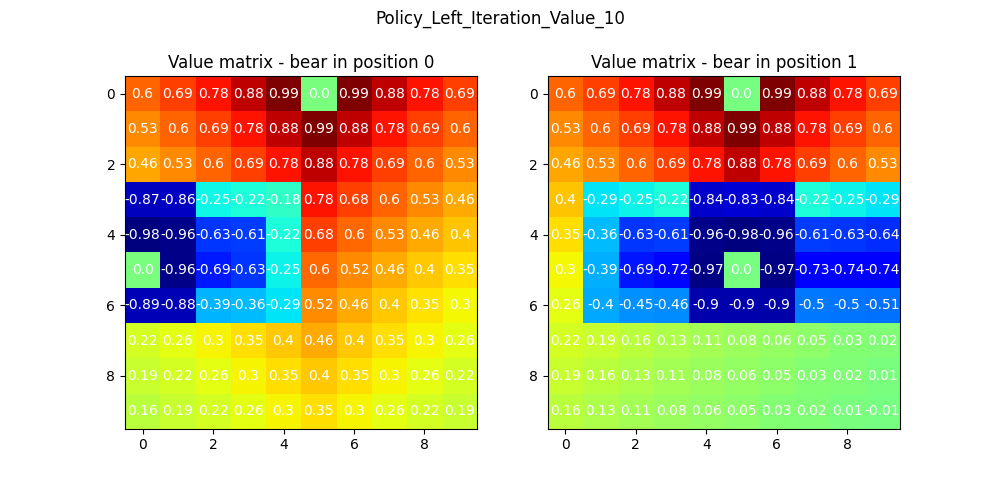
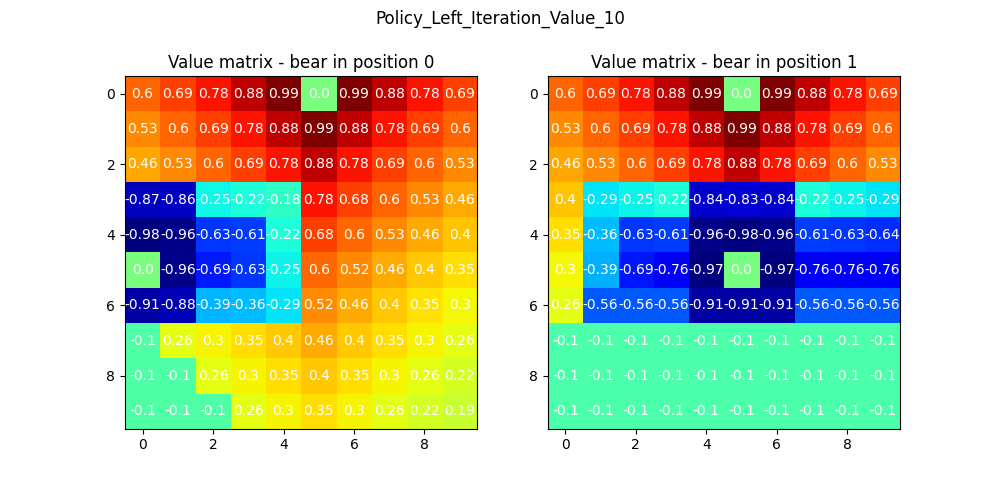
correct exercise 2

Changed region(s): [[0.527, 0.57, 0.899, 0.87], [0.124, 0.6, 0.248, 0.87]]

diff --git a/Assignments/HW1_HB/Ex2_DP_HB.py b/Assignments/HW1_HB/Ex2_DP_HB.py
@@ -168,8 +168,8 @@ def policy_iteration_left(prob, reward, gamma, iterations):
     policy = np.ones(n_states, dtype=int)*2
     value = np.zeros(n_states)
 
-    changed = True
-    while changed:
+    iter = 0
+    while iter < iterations:
         p_pi = np.zeros((n_states, n_states))
         r_pi = np.zeros(n_states)
         i = np.eye(n_states)
@@ -184,7 +184,6 @@ def policy_iteration_left(prob, reward, gamma, iterations):
 
         value = np.linalg.solve(i - gamma * p_pi, r_pi)
 
-        changed = False
 
         for state in range(n_states):
             vmax = value[state]
@@ -196,9 +195,8 @@ def policy_iteration_left(prob, reward, gamma, iterations):
                     if va > vmax and not np.isclose(va, vmax):
                         policy[state] = action
                         vmax = va
-                        changed = True
-
-
+                        
+        iter = iter + 1
     ######################
 
     return value, policy
